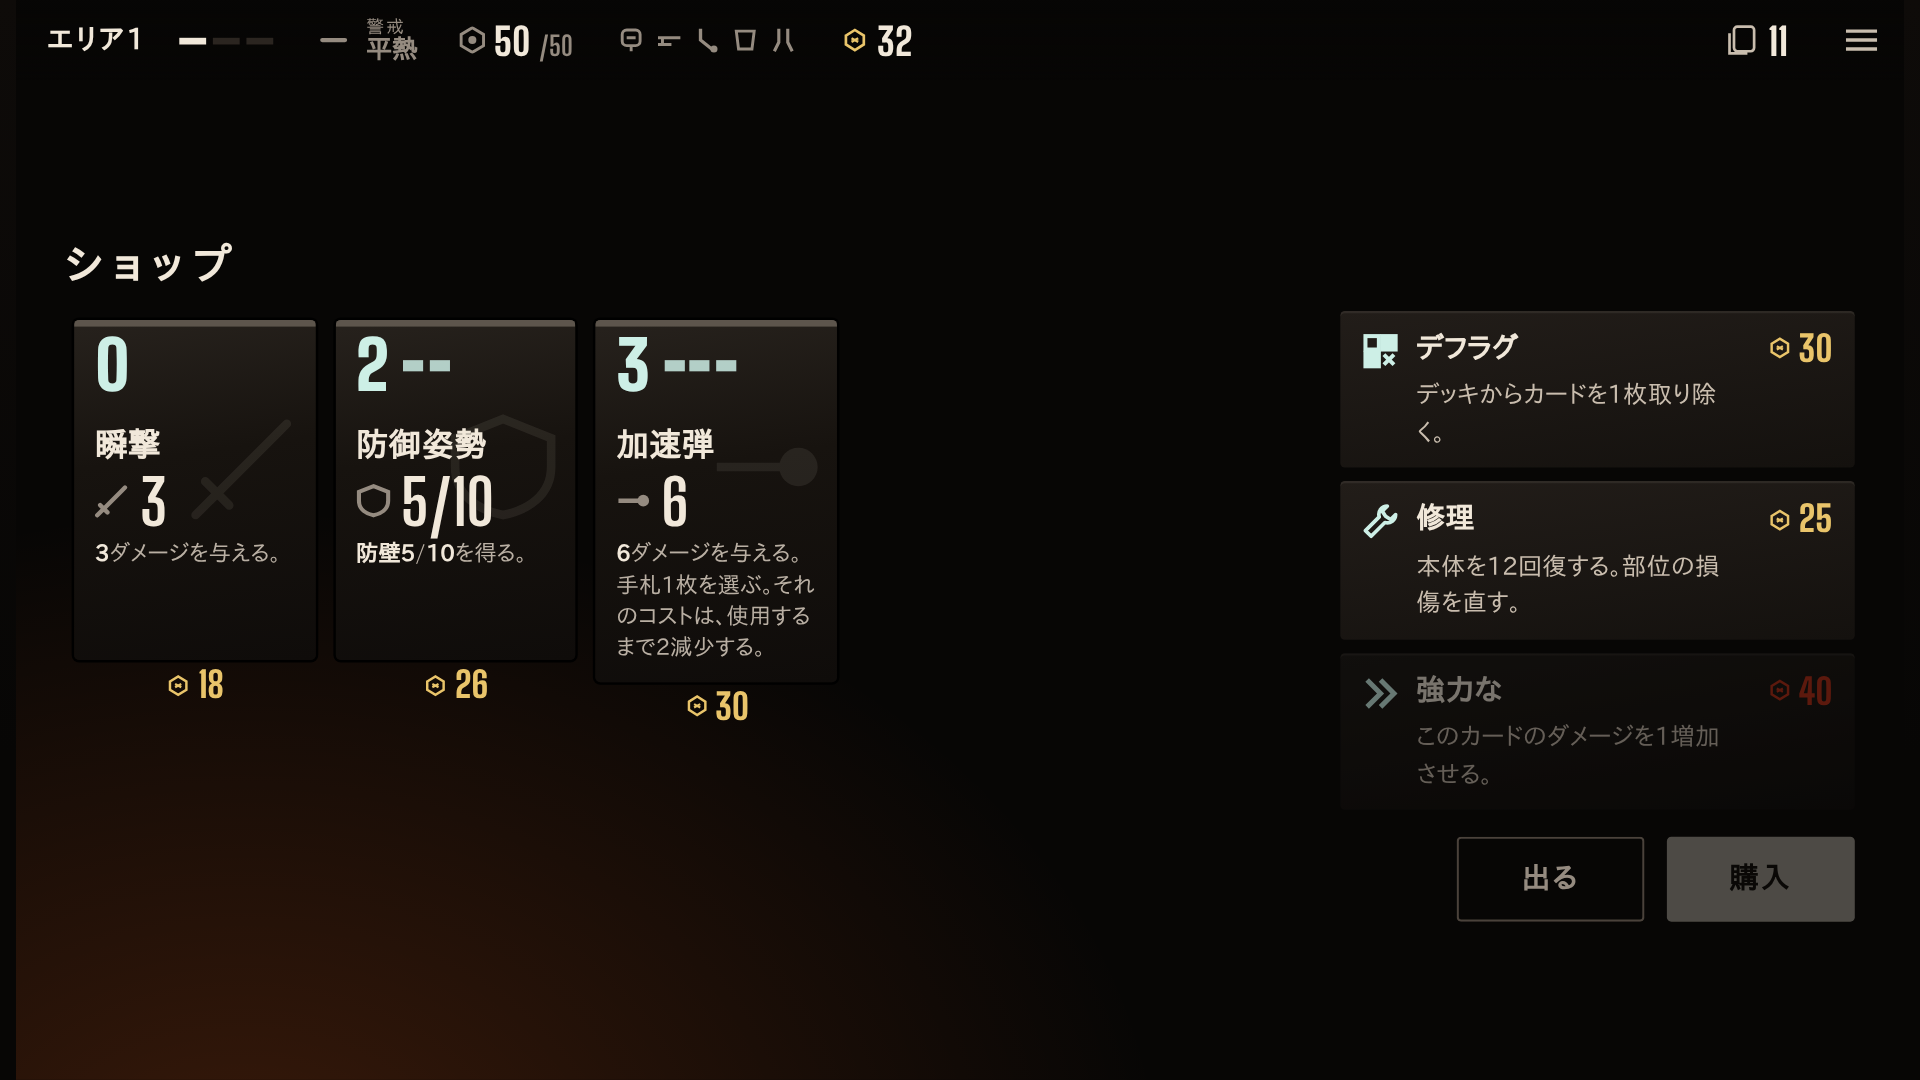
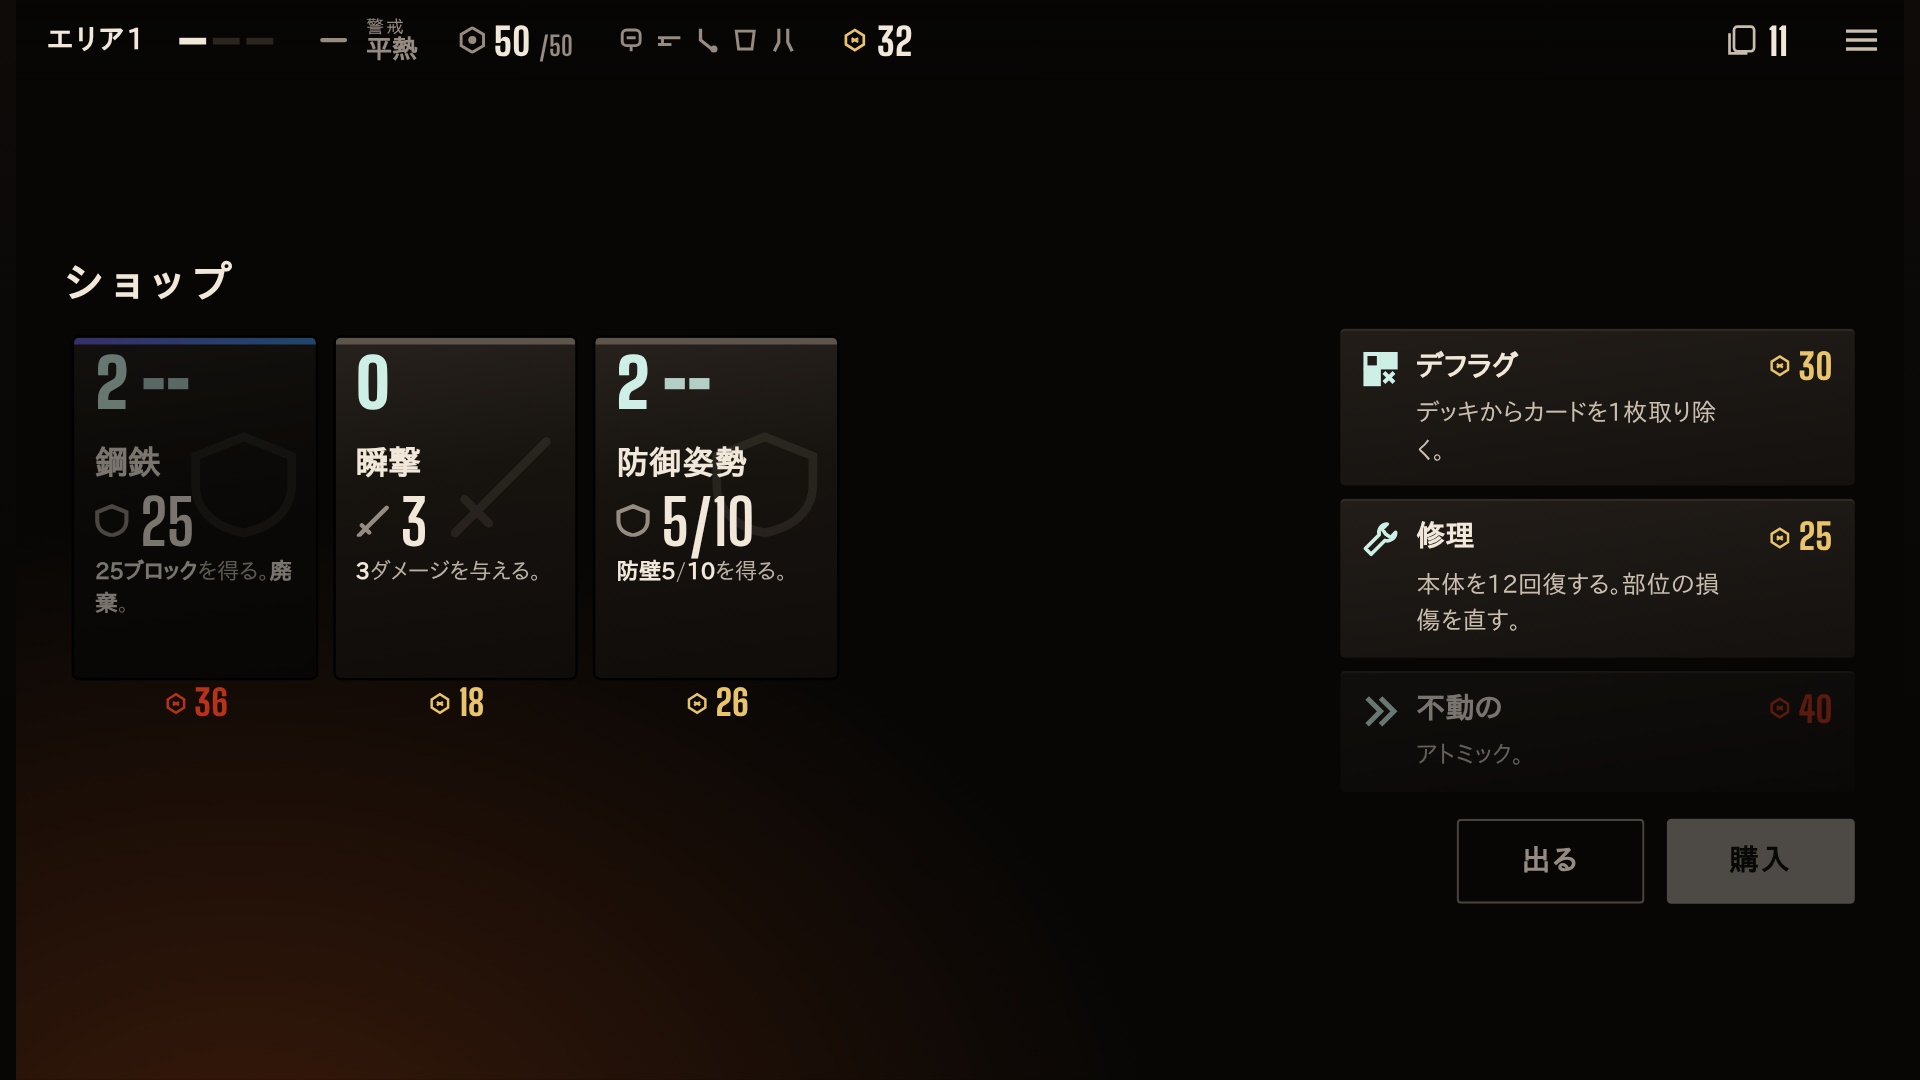
確かめた結果を正す: マウスだけの確かめは play19・shots.js は画面へ直に移る道具、重さに 99% といちばん長いコマを足す、工房の試遊ビルドも確かめた。画面を撮り直す
play19: 手札の札は data-i のあるものから選ぶ(離れていく札を拾わない)

Claude-Session: https://claude.ai/code/session_01JuwGFzzmGMqRuNDvD1GH1u

diff --git a/tools/publish/play19.js b/tools/publish/play19.js
@@ -80,7 +80,7 @@ const { chromium } = require('playwright');
     nstep = (typeof nstep === 'number' ? nstep : 0) + 1;
     if(st.hand > 0 && nstep % 6 === 0 && await vis('#waitBtn')){ await click('#waitBtn'); if(battles <= 3 && !snapped.has('wsel' + battles)){ snapped.add('wsel' + battles); await snap('waitsel'); } await click('#waitBtn'); await p.waitForFunction(() => !busy, null, {timeout: 30000}).catch(() => log.push('timeout')); continue; }
     if(st.hand > 0 && nstep % 9 === 0 && battles <= 6){ await snap('b' + battles + '-t' + st.T); }
-    const ci = await p.evaluate(() => { const el = document.querySelector('#hand .card:not(.off)'); return el ? el.dataset.i : null; });
+    const ci = await p.evaluate(() => { const el = document.querySelector('#hand .card[data-i]:not(.off)'); return el ? el.dataset.i : null; });
     if(st.hand > 0 && ci != null){
       const cs = `#hand .card[data-i="${ci}"]`;
       await click(cs);

diff --git a/tools/publish/shots.js b/tools/publish/shots.js
@@ -1,6 +1,7 @@
 // 主な画面を決まった大きさで撮る(依頼 6章の5)。
 //   node tools/publish/shots.js [index.html の場所] [出す先=docs/shots] [大きさ=844x390,1920x1080]
-// 乱数を固定して同じ画面を撮る。操作はマウスだけ(クリックと右クリック)。
+// 乱数を固定して同じ画面を撮る。撮るための道具なので、画面へは関数を呼んで直に移る(enterRoom・onWin など)。閉じるのに Esc も使う。
+// マウスだけで遊べることの確かめは play19.js(クリックと右クリックだけ)のほう。
 const { chromium } = require('playwright');
 const path = require('path'), fs = require('fs');
 const src = path.resolve(process.argv[2] || 'index.html');

diff --git a/docs/visual-guide.md b/docs/visual-guide.md
@@ -30,7 +30,7 @@
 | `tools/audio/index.html` | 効果音と曲の試聴ページ |
 | `tools/icons/` | アイコンの元の絵(`icon.svg`)と、`icons/*.png` を作る道具 |
 | `tools/publish/flowcheck.js` | 進行の処理が main と変わっていないことの検査 |
-| `tools/publish/shots.js` | 主な画面を 844×390 と 1920×1080 で撮る(マウス操作だけ) |
+| `tools/publish/shots.js` | 主な画面を 844×390 と 1920×1080 で撮る(画面へは関数で直に移る) |
 | `docs/shots/` | shots.js で撮った画面(見た目の基準) |
 | `tools/mock/direction/` | 方向性の見本(案A・案B)。本体からは読まない |
 
@@ -202,12 +202,19 @@ node tools/publish/flowcheck.js main . 2                                       #
 | 3 自動の1周 | play19(動きを減らす・876×390) | クリア(1敗)・エラー 0 |
 | | play19(動きを減らす・1920×1080)2本 | 1本クリア(2敗)・エラー 0。もう1本は自動操作が累計4敗して打ち切り(エラー 0。打ち方が「出せる札を左から出す」だけなので負ける) |
 | | play19(動きあり・844×390) | クリア(0敗)・エラー 0 |
+| 工房の試遊 | `stage.sh`(→ `tools/sheet/mkplay.js`)で作り、`play/index.html` を開く | 作れる。字体・音・地図まで動き、読み込みの失敗 0 |
 | 4 進行が変わっていない | `flowcheck.js main . 2`(と `--full` 1種は `bb981c2` で) | 2種とも部屋ごとの `S.run` が **一致**・問題 0 |
-| 5 画面 | `shots.js` → `docs/shots/844x390/`・`docs/shots/1920x1080/` | 地図・戦闘・カード選択・敵の詳細・自機・手札・勝利・報酬・ショップ・整備・イベント・保守通路・メニュー |
-| 6 マウスだけ | play19 と shots.js はクリックと右クリックとホイールだけで操作する | 上のとおり通る |
+| 5 画面 | `shots.js` → `docs/shots/844x390/`・`docs/shots/1920x1080/`(撮り直しは下の版で) | 地図・戦闘・カード選択・敵の詳細・自機・手札・勝利・報酬・ショップ・整備・イベント・保守通路・メニュー |
+| 6 マウスだけ | play19 はクリックと右クリックだけで遊ぶ(状態は読むだけで、関数は呼ばない)。ほかに手で書いた確かめ: 左上のボタンで自機の状態・手札を開け閉めする、手札と報酬の札を右クリックで拡大する、26種のデッキの強化をホイールで送って最後の札を選ぶ | 上の play19 がクリア。手で書いた確かめも通る(この3つは repo に入れていない) |
 
 - **途中で見つけて直したもの**: 手札から離れていく札が押せた(9章の `leaveHand`)。1920×1080 の play19 が「選んだ札をもう一度押す」で止まったのを、押した記録から突き止めた。
-- **重さ**(CPU を 1/4 に落とし、戦闘を流して1コマの間隔を測る。`e_tank`・`n_squad`・`boss`、何度か測った幅): 平均 main 54〜57fps / 新版 51〜56fps、33ms を超えるコマ main 1.6〜2.9% / 新版 2.2〜4.5%。
-  火の粉のキャンバスを小さくして縮めたが、差は残っている。大きく落ちる所は無い。
+- **重さ**(CPU を 1/4 に落とし、844×390・画素2倍で戦闘を流して1コマの間隔を測る。`e_tank`・`n_squad`・`boss`、何度か測った幅):
+
+  | | 平均 | 33ms を超えるコマ | 99% のコマ | いちばん長いコマ |
+  | --- | --- | --- | --- | --- |
+  | main | 54〜57fps | 1.6〜2.9% | 50ms | 67〜133ms |
+  | 新版 | 51〜56fps | 2.2〜4.5% | 50〜83ms | 83〜200ms |
+
+  新版のほうが少し重い。いちばん長いコマ(183・200ms)はどちらも `n_squad`(ユニットが多い敵)。火の粉のキャンバスを小さくして縮めたが、差は残っている。実機では測っていない。
 - **確かめていないもの**: 実機(依頼の端末名は空欄だったので、手元の端末では試していない)。音は耳で確かめていない(全部の効果音と曲がエラーなく鳴ることだけ確かめた)。
 - **前に一度だけ起きて、原因が分からないもの**: 作業の途中(`ec3dda8`)で、play19(動きを減らす)が保守通路の部位交換が続いたあと約10分止まった。その後の実行では一度も起きていない。今回見つけた「離れていく札を押す」と同じものだった可能性はあるが、記録を残していなかったので確かめられない。

diff --git a/tools/publish/README.md b/tools/publish/README.md
@@ -10,7 +10,7 @@
 | csvedit.py | text/*.csv(BOM+CRLF)をキーで書き換える: setcol(path, key, 列, 値) / delrow / addrow。書き換えたら `node tools/text.js` |
 | play19.js | Playwright で試遊版を自動で遊ぶ(操作はマウスだけ)。`WEAK=1` で敵を弱くして流れだけ見る。`MOTION=1` で「動きを減らす」設定なし(既定はあり)。`SIZE=1920x1080` で画面の大きさ。押せなかったときは、直前の押した記録(押した要素と busy・sel・PICK・QUEUED)と状態を出し、`zz-click-failed.png` を撮って止まる |
 | flowcheck.js | `node tools/publish/flowcheck.js [基準] [比べる版] [種の数] [--full]`。進行の処理が変わっていないことの検査(0.54.0)。main の版と今の版で、同じ乱数・同じ選び方で1周を流し、部屋を終えるごと・戦闘を始めるごとの S.run が一致するかを見る。見た目を直したら走らせる |
-| shots.js | `node tools/publish/shots.js [index.html] [出す先=docs/shots] [大きさ=844x390,1920x1080]`。乱数を固定して、主な画面(地図・戦闘・カード選択・敵の詳細・自機・手札・勝利・報酬・ショップ・整備・イベント・保守通路・メニュー)をマウス操作で撮る(0.54.0) |
+| shots.js | `node tools/publish/shots.js [index.html] [出す先=docs/shots] [大きさ=844x390,1920x1080]`。乱数を固定して、主な画面(地図・戦闘・カード選択・敵の詳細・自機・手札・勝利・報酬・ショップ・整備・イベント・保守通路・メニュー)を撮る。画面へは関数を呼んで直に移る(遊べることの確かめは play19.js)(0.54.0) |
 | fuzz.js | `node tools/publish/fuzz.js <mkapp の出力>/index.html <遭遇,...> [種の数]`。演出の打ち切り(0.50.0)の検査。同じ乱数で「ふつうに遊ぶ」と「演出中に連打する」を比べ、行動ごとの状態が一致するか、画面に取り残し(止まった動き・効果の要素・手札の数・消えた敵)がないかを見る。演出やその待ちを足したら走らせる |
 | wbmock.js | 工房を mock の共有データベースで動かす例(Playwright) |
 
